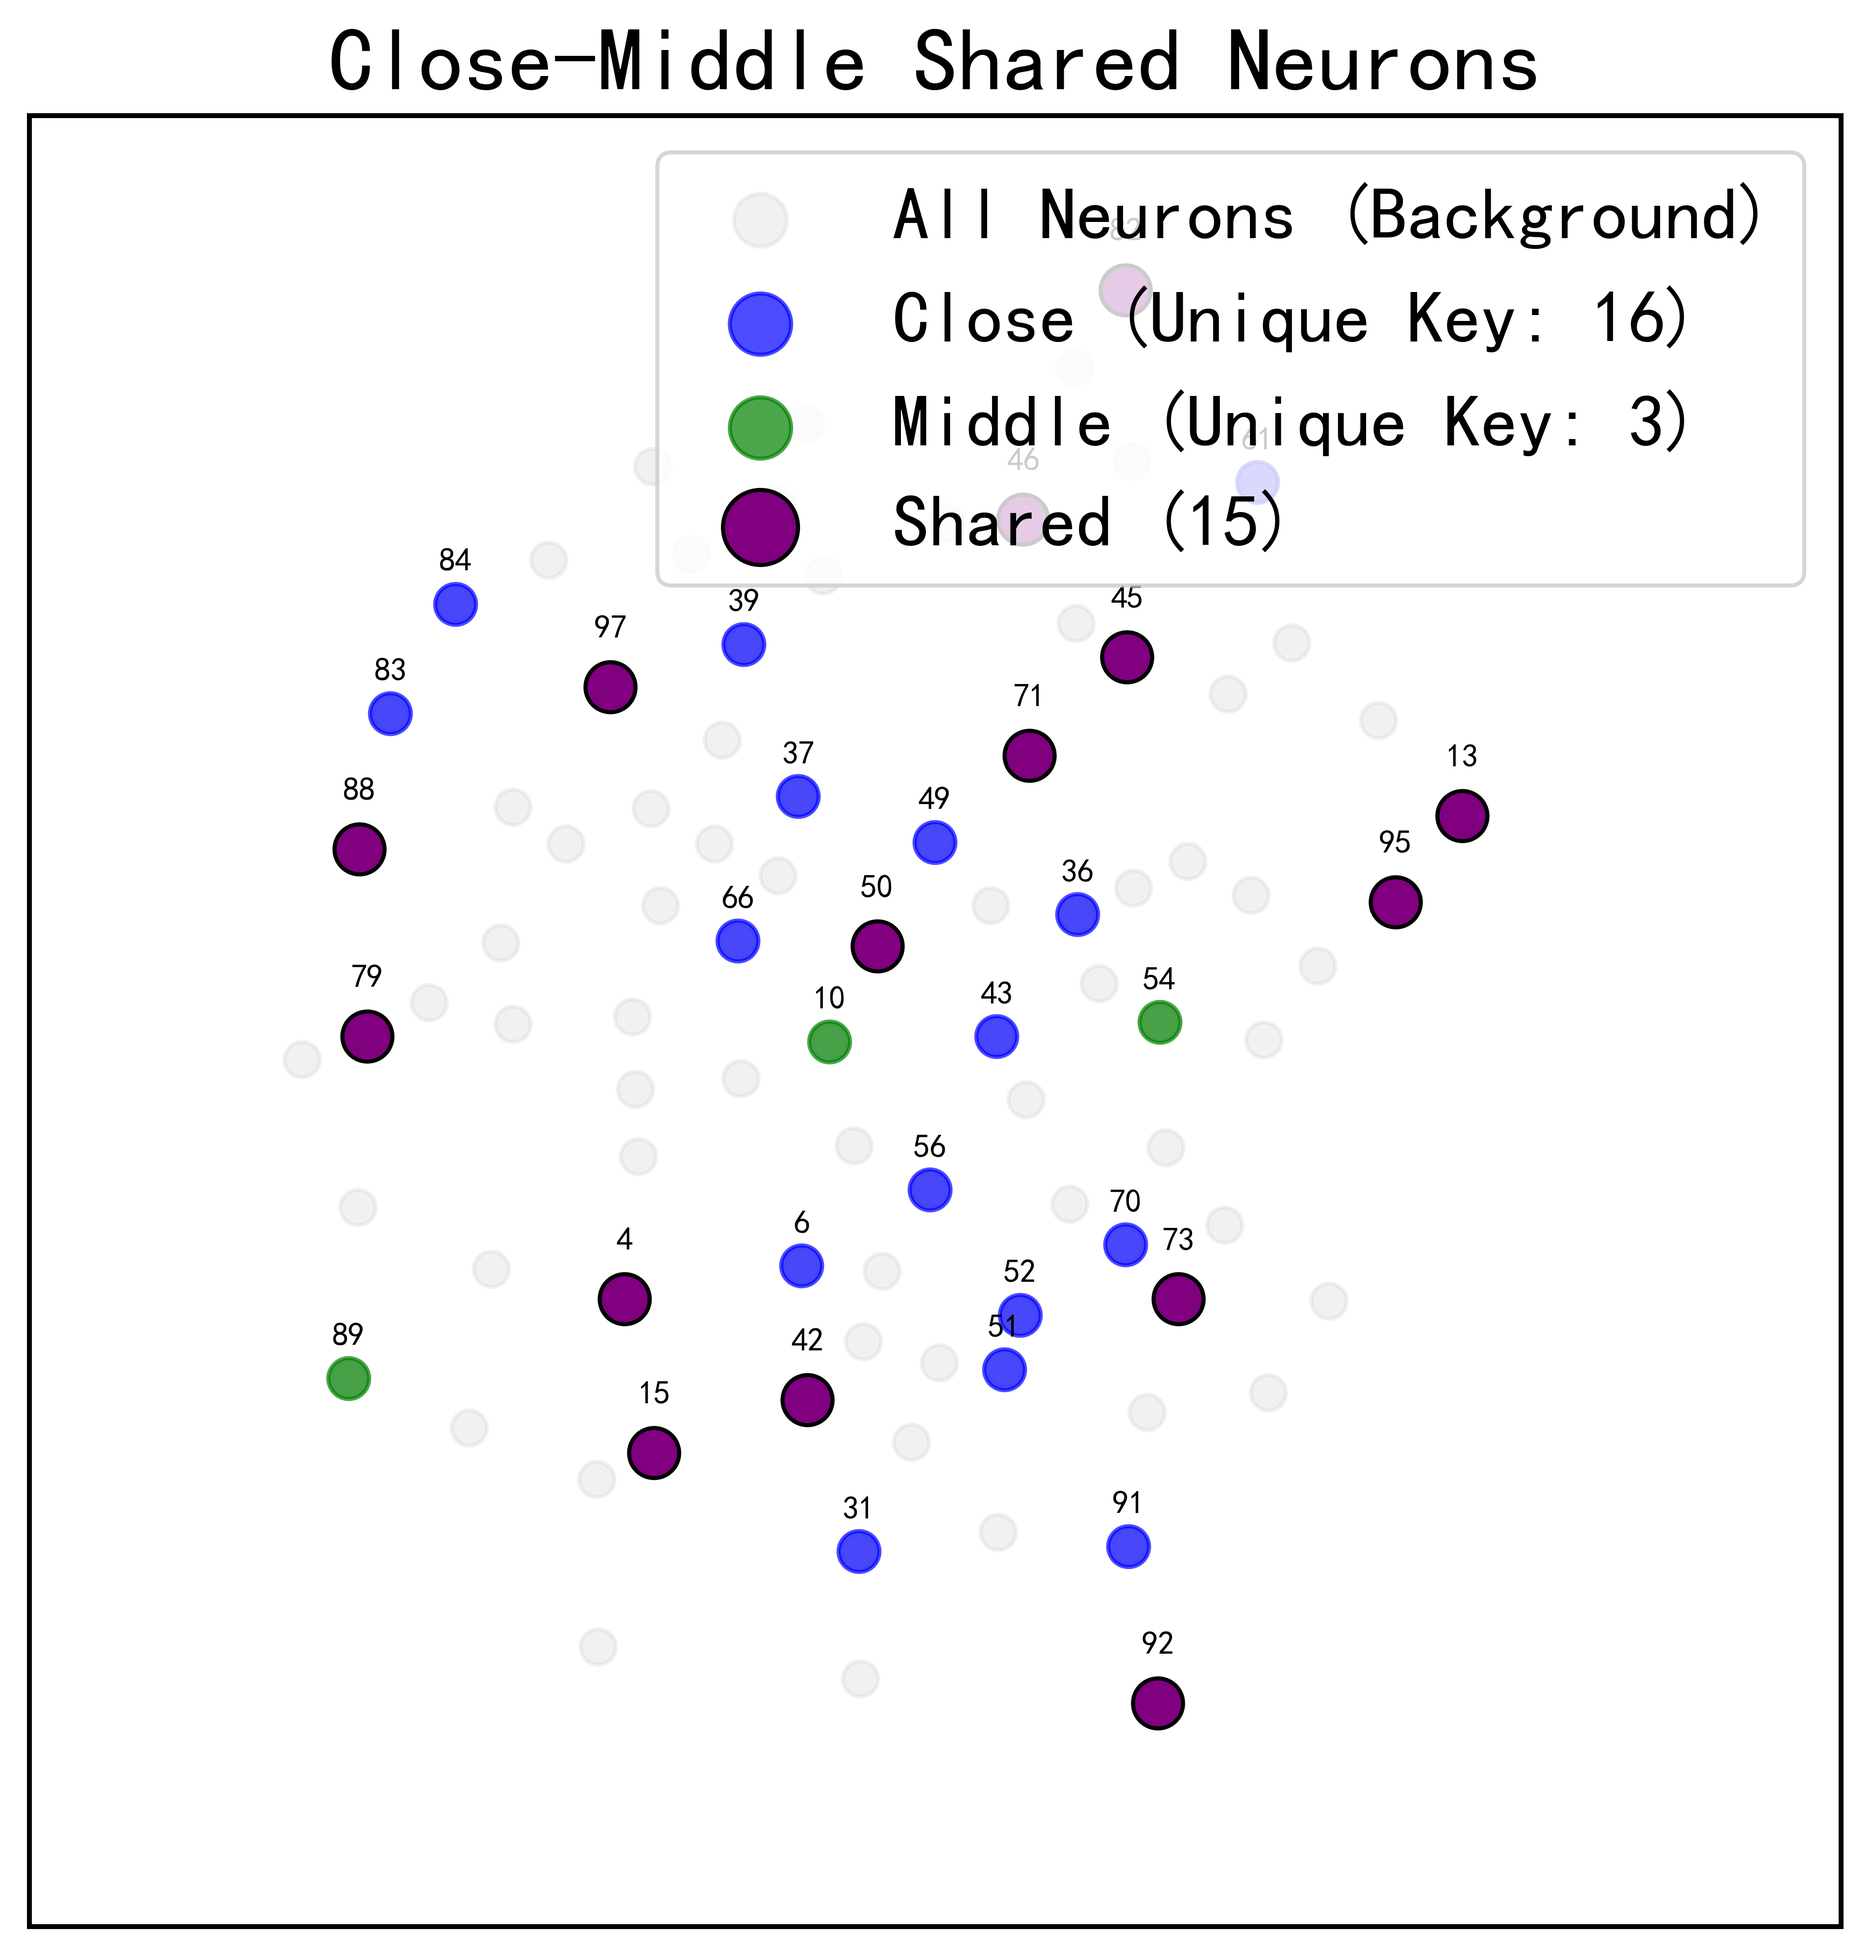
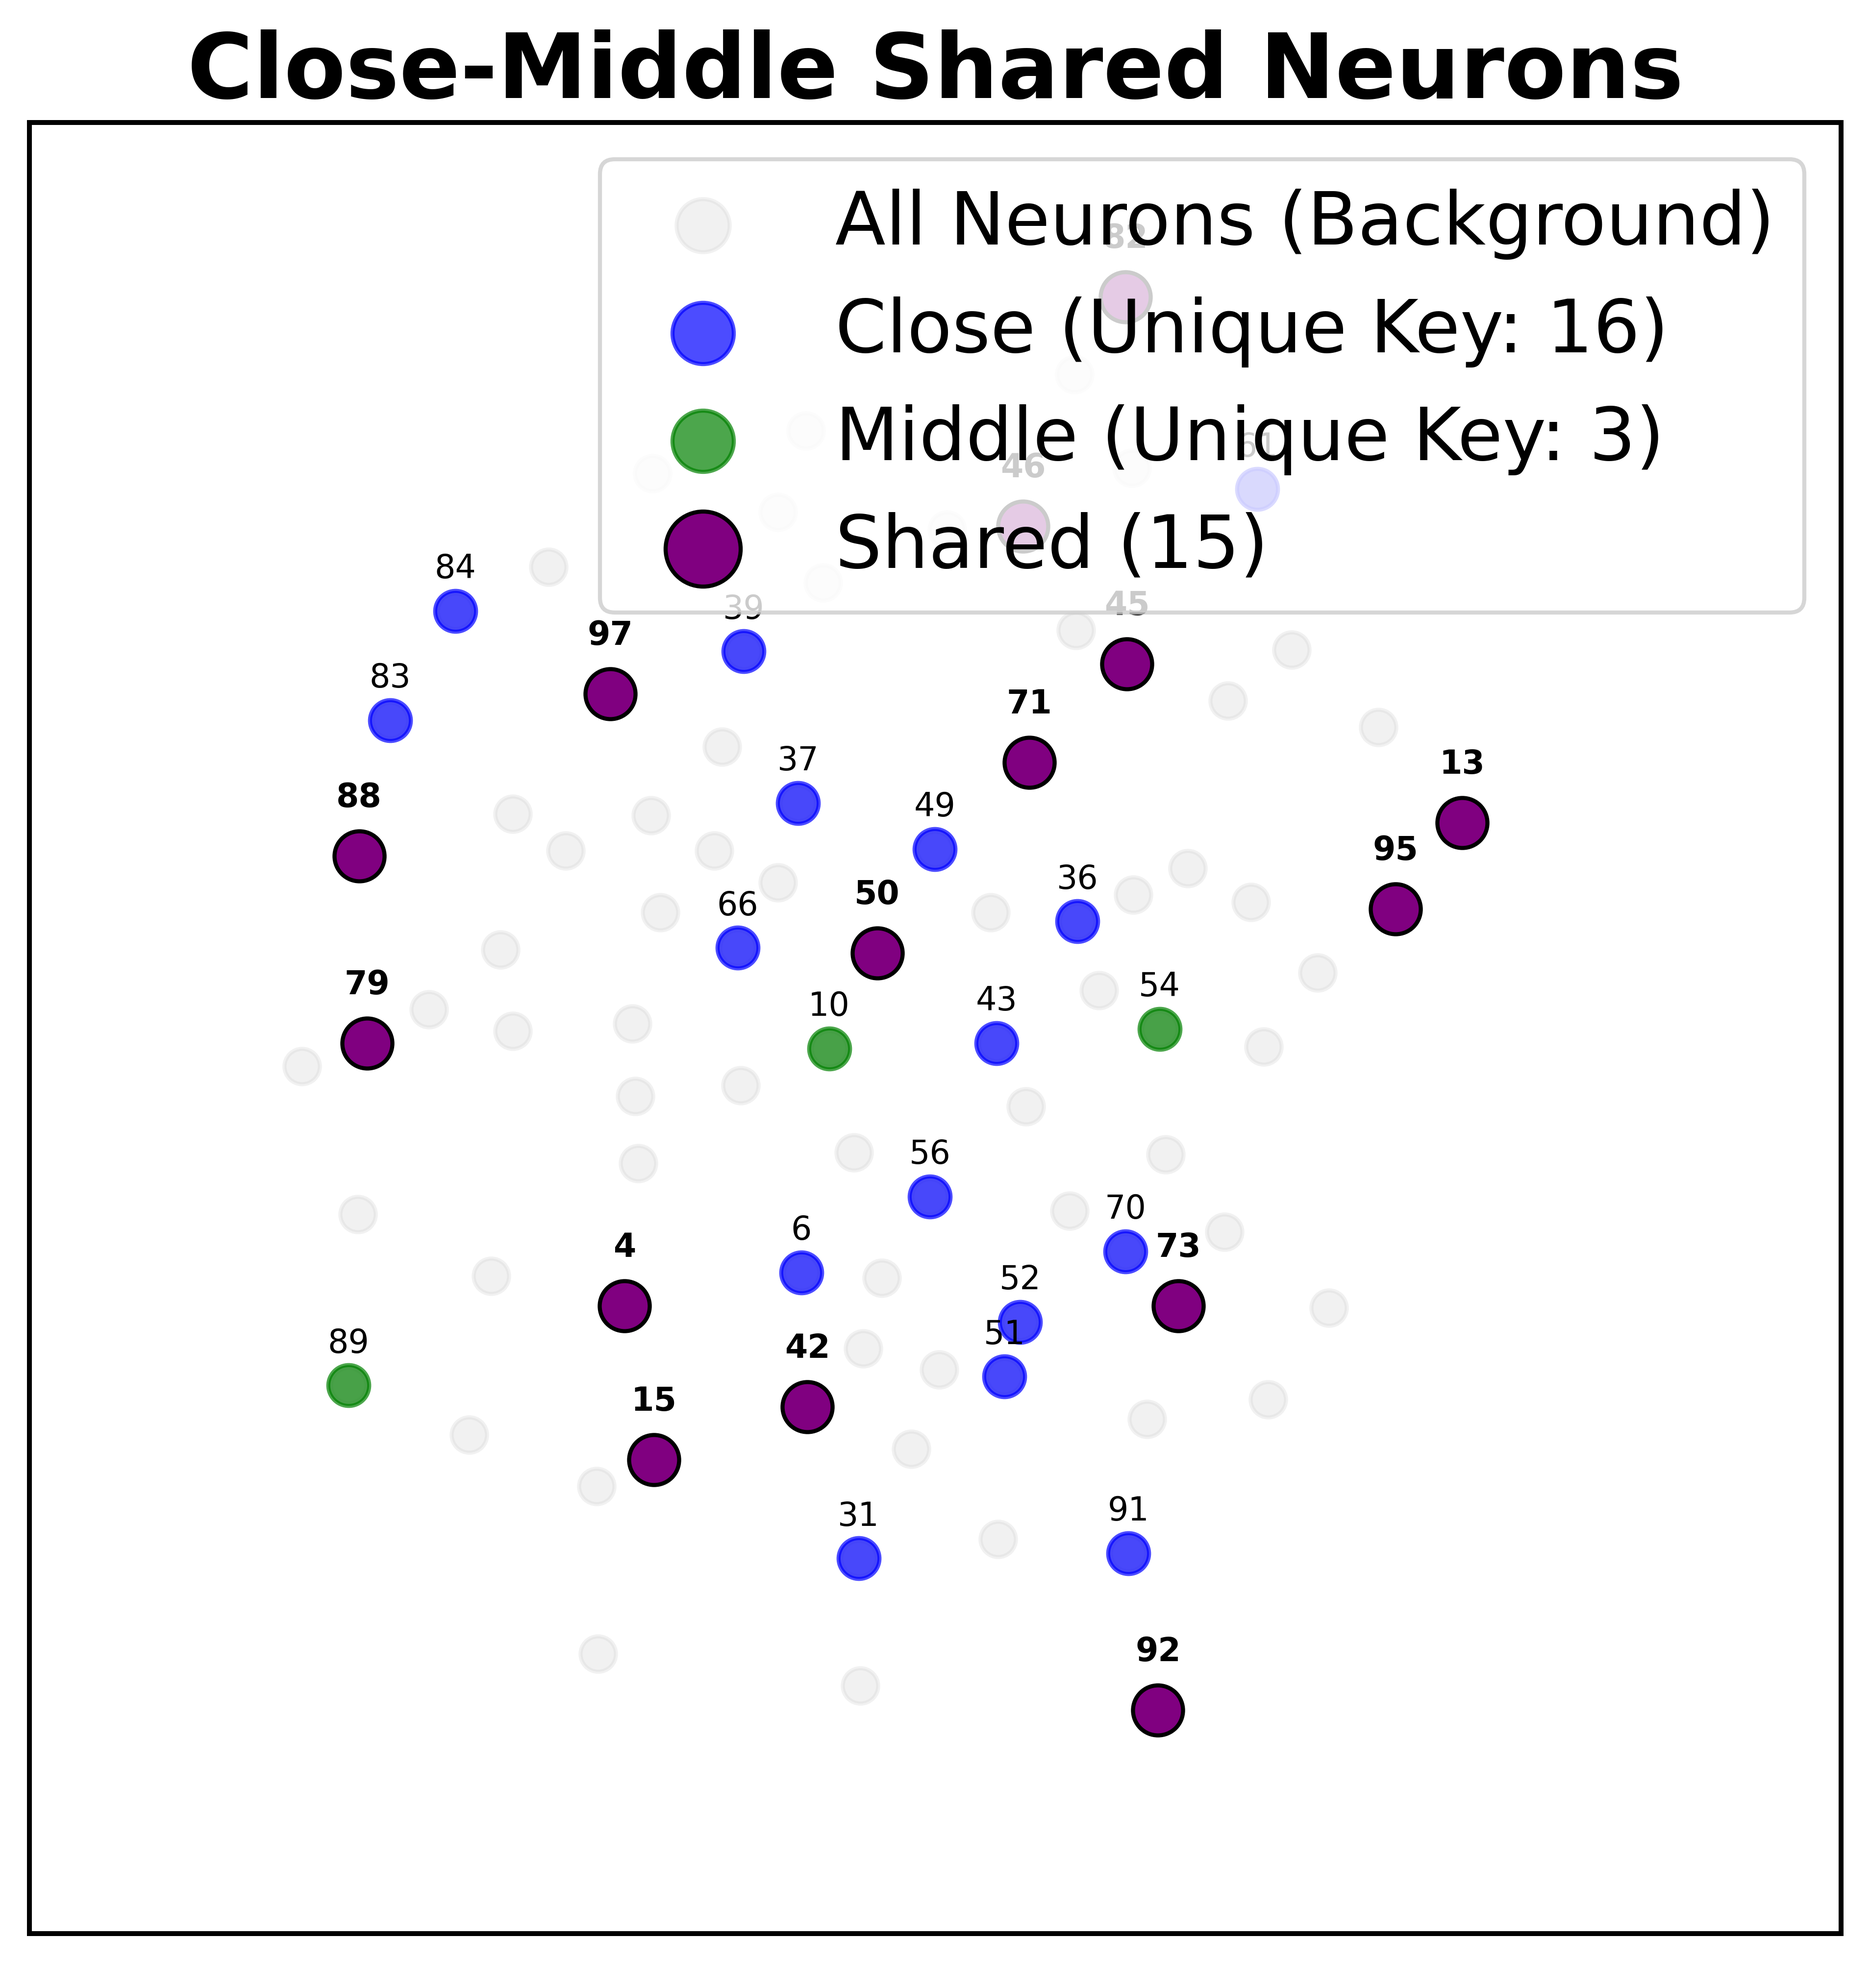
1

diff --git a/principal_neuron/src/plotting_utils.py b/principal_neuron/src/plotting_utils.py
@@ -211,6 +211,114 @@ def plot_shared_neurons_map(behavior1_name, behavior2_name,
     elif fig is not None and output_path is None and ax is None:
         plt.close(fig)
 
+def plot_shared_neurons_map_3way(behavior1_name, behavior2_name, behavior3_name,
+                                 behavior1_all_key_neurons_df, behavior2_all_key_neurons_df, behavior3_all_key_neurons_df,
+                                 shared_key_neurons_df,
+                                 color1, color2, color3, mixed_color,
+                                 title, output_path=None,
+                                 all_neuron_positions_df=None,
+                                 show_background_neurons=False,
+                                 background_neuron_color='lightgray',
+                                 background_neuron_size=20,
+                                 background_neuron_alpha=0.5,
+                                 standard_key_neuron_alpha=0.7,
+                                 use_standard_alpha_for_unshared_in_scheme_b=True,
+                                 scheme='B', show_title=True, alpha_non_shared=0.3, shared_marker_size_factor=1.5,
+                                 ax=None
+                                 ):
+    """
+    绘制三种行为间共享的关键神经元图。
+    如果提供了 ax 参数，则在该 ax 上绘图，否则创建新图并保存到 output_path。
+    """
+    fig = None
+    if ax is None:
+        fig, ax = plt.subplots(figsize=(10, 8))
+        fig.patch.set_facecolor('white')
+
+    base_marker_size = 100
+
+    # Draw background
+    if show_background_neurons and all_neuron_positions_df is not None and not all_neuron_positions_df.empty:
+        _draw_activity_on_ax(ax, all_neuron_positions_df,
+                             color=background_neuron_color, 
+                             size=background_neuron_size, 
+                             alpha=background_neuron_alpha,
+                             edgecolors=background_neuron_color, 
+                             label='All Neurons (Background)',
+                             annotate_ids=False, 
+                             z_order=1)
+
+    if scheme == 'A':
+        # Scheme A: Only draw shared neurons
+        if shared_key_neurons_df.empty:
+            if fig is not None: print(f"行为 {behavior1_name}, {behavior2_name}, {behavior3_name} 之间无共享神经元。")
+        else:
+            _draw_activity_on_ax(ax, shared_key_neurons_df, color=mixed_color, size=base_marker_size,
+                                 alpha=0.9, edgecolors='black', label=f'Shared ({len(shared_key_neurons_df)})',
+                                 z_order=4, annotation_fontsize=9 if fig is None else 8)
+    
+    elif scheme == 'B':
+        # Scheme B: Draw non-shared (relative to the triple intersection) + Shared
+        current_alpha_for_unshared = alpha_non_shared
+        if use_standard_alpha_for_unshared_in_scheme_b:
+            current_alpha_for_unshared = standard_key_neuron_alpha
+
+        shared_ids = shared_key_neurons_df['NeuronID'].tolist() if not shared_key_neurons_df.empty else []
+
+        # Draw B1 non-shared
+        non_shared_b1_df = behavior1_all_key_neurons_df[~behavior1_all_key_neurons_df['NeuronID'].isin(shared_ids)]
+        if not non_shared_b1_df.empty:
+            _draw_activity_on_ax(ax, non_shared_b1_df, color=color1, size=base_marker_size,
+                                 alpha=current_alpha_for_unshared, edgecolors=color1,
+                                 label=f'{behavior1_name} (Unique Key: {len(non_shared_b1_df)})', z_order=2,
+                                 annotation_fontsize=8, annotation_weight='normal', annotation_offset=(0,8)) 
+
+        # Draw B2 non-shared
+        non_shared_b2_df = behavior2_all_key_neurons_df[~behavior2_all_key_neurons_df['NeuronID'].isin(shared_ids)]
+        if not non_shared_b2_df.empty:
+            _draw_activity_on_ax(ax, non_shared_b2_df, color=color2, size=base_marker_size,
+                                 alpha=current_alpha_for_unshared, edgecolors=color2,
+                                 label=f'{behavior2_name} (Unique Key: {len(non_shared_b2_df)})', z_order=2,
+                                 annotation_fontsize=8, annotation_weight='normal', annotation_offset=(0,8))
+
+        # Draw B3 non-shared
+        non_shared_b3_df = behavior3_all_key_neurons_df[~behavior3_all_key_neurons_df['NeuronID'].isin(shared_ids)]
+        if not non_shared_b3_df.empty:
+            _draw_activity_on_ax(ax, non_shared_b3_df, color=color3, size=base_marker_size,
+                                 alpha=current_alpha_for_unshared, edgecolors=color3,
+                                 label=f'{behavior3_name} (Unique Key: {len(non_shared_b3_df)})', z_order=2,
+                                 annotation_fontsize=8, annotation_weight='normal', annotation_offset=(0,8))
+
+        # Draw Shared
+        if not shared_key_neurons_df.empty:
+            _draw_activity_on_ax(ax, shared_key_neurons_df, color=mixed_color,
+                                 size=base_marker_size * shared_marker_size_factor,
+                                 alpha=1.0, edgecolors='black',
+                                 label=f'Shared ({len(shared_key_neurons_df)})', z_order=4,
+                                 annotation_fontsize=9 if fig is None else 8, annotation_weight='bold')
+        elif fig is not None:
+             print(f"行为 {behavior1_name}, {behavior2_name}, {behavior3_name} 之间无共享神经元。")
+
+    else:
+        if fig is not None: raise ValueError(f"未知绘图方案: {scheme}")
+        else: ax.text(0.5,0.5, f"Error: Unknown scheme '{scheme}'", transform=ax.transAxes)
+
+    if show_title: ax.set_title(title, fontsize=24 if fig is None else 22, fontweight='bold')
+    
+    _style_activity_plot_ax(ax)
+    
+    handles, labels = ax.get_legend_handles_labels()
+    if handles:
+        by_label = OrderedDict(zip(labels, handles))
+        ax.legend(by_label.values(), by_label.keys(), loc='upper right', fontsize=18, markerscale=1.5)
+
+    if fig is not None and output_path is not None:
+        plt.savefig(output_path, bbox_inches='tight')
+        print(f"图表已保存到 {output_path}")
+        plt.close(fig)
+    elif fig is not None and output_path is None and ax is None:
+        plt.close(fig)
+
 def plot_unique_neurons_map(unique_neurons_df, behavior_name, behavior_color, title, output_path=None, 
                               all_neuron_positions_df=None, 
                               show_background_neurons=False, 

diff --git a/principal_neuron/src/main_emtrace_analysis.py b/principal_neuron/src/main_emtrace_analysis.py
@@ -371,7 +371,8 @@ from plotting_utils import (
     plot_unique_neurons_map,
     plot_combined_9_grid,
     plot_3d_combined_neuron_distribution,
-    plot_3d_activation_categories_combined
+    plot_3d_activation_categories_combined,
+    plot_shared_neurons_map_3way
 )
 from effect_size_calculator import EffectSizeCalculator, load_and_calculate_effect_sizes
 
@@ -766,9 +767,9 @@ if __name__ == "__main__":
     # dataset_key = 'bla6250_plus' # 使用BLA6250增强版数据集
     # dataset_key = 'day3'         # 使用Day3数据集
     
-    dataset_key = '29800930openfield'    # 使用29800930openfield数据集
+    # dataset_key = '29800930openfield'    # 使用29800930openfield数据集
     # dataset_key = '29800924openfield'    # 使用29800924openfield数据集
-    # dataset_key = '5355EM'    # 使用5355EM数据集
+    dataset_key = '5355EM-plus'    # 使用5355EM数据集
     
     # ===============================================================================
     # 智能数据集选择和验证
@@ -965,6 +966,70 @@ if __name__ == "__main__":
             except Exception as e:
                 print(f"    ❌ 生成 {b1}-{b2} 共享图表失败: {str(e)}")
         
+        # --- 2.5 为每三组行为生成共享神经元图 (如果有3个或更多行为) ---
+        if len(all_behaviors) >= 3:
+            print(f"\n🔗 生成每三组行为的共享神经元图...")
+            behavior_triplets = list(combinations(all_behaviors, 3))
+            print(f"  📊 总共需要生成 {len(behavior_triplets)} 个三组共享神经元图")
+            
+            for b1, b2, b3 in behavior_triplets:
+                print(f"  🔸 生成 {b1}, {b2}, {b3} 的共享神经元图...")
+                
+                ids1 = set(key_neurons_by_behavior.get(b1, []))
+                ids2 = set(key_neurons_by_behavior.get(b2, []))
+                ids3 = set(key_neurons_by_behavior.get(b3, []))
+                shared_ids = list(ids1.intersection(ids2).intersection(ids3))
+                
+                if not shared_ids:
+                    print(f"    ⚠  {b1}, {b2}, {b3} 没有共同共享的关键神经元，跳过...")
+                    continue
+
+                df_b1_all_key = df_neuron_positions[df_neuron_positions['NeuronID'].isin(list(ids1))]
+                df_b2_all_key = df_neuron_positions[df_neuron_positions['NeuronID'].isin(list(ids2))]
+                df_b3_all_key = df_neuron_positions[df_neuron_positions['NeuronID'].isin(list(ids3))]
+                df_shared_key = df_neuron_positions[df_neuron_positions['NeuronID'].isin(shared_ids)]
+                
+                safe_b1 = b1.replace('/', '-').replace('\\', '-').replace(':', '-').replace('*', '-').replace('?', '-').replace('"', '-').replace('<', '-').replace('>', '-').replace('|', '-')
+                safe_b2 = b2.replace('/', '-').replace('\\', '-').replace(':', '-').replace('*', '-').replace('?', '-').replace('"', '-').replace('<', '-').replace('>', '-').replace('|', '-')
+                safe_b3 = b3.replace('/', '-').replace('\\', '-').replace(':', '-').replace('*', '-').replace('?', '-').replace('"', '-').replace('<', '-').replace('>', '-').replace('|', '-')
+                
+                output_filename = f"shared_3way_{safe_b1}_{safe_b2}_{safe_b3}.png"
+                output_path = os.path.join(data_paths['output_dir'], output_filename)
+                
+                try:
+                    # Determine colors
+                    c1 = behavior_color_map.get(b1, 'pink')
+                    c2 = behavior_color_map.get(b2, 'lightblue')
+                    c3 = behavior_color_map.get(b3, 'lightgreen')
+                    
+                    # For mixed color, maybe use black or a distinct color
+                    mixed_color = 'black' 
+                    
+                    plot_shared_neurons_map_3way(
+                        behavior1_name=b1, behavior2_name=b2, behavior3_name=b3,
+                        behavior1_all_key_neurons_df=df_b1_all_key,
+                        behavior2_all_key_neurons_df=df_b2_all_key,
+                        behavior3_all_key_neurons_df=df_b3_all_key,
+                        shared_key_neurons_df=df_shared_key,
+                        color1=c1, color2=c2, color3=c3,
+                        mixed_color=mixed_color,
+                        title=f'{b1}-{b2}-{b3} Shared Neurons',
+                        output_path=output_path,
+                        all_neuron_positions_df=df_neuron_positions,
+                        scheme='B',
+                        show_background_neurons=SHOW_BACKGROUND_NEURONS,
+                        background_neuron_color=BACKGROUND_NEURON_COLOR,
+                        background_neuron_size=BACKGROUND_NEURON_SIZE,
+                        background_neuron_alpha=BACKGROUND_NEURON_ALPHA,
+                        standard_key_neuron_alpha=STANDARD_KEY_NEURON_ALPHA,
+                        use_standard_alpha_for_unshared_in_scheme_b=USE_STANDARD_ALPHA_FOR_UNSHARED_IN_SCHEME_B,
+                        alpha_non_shared=0.3,
+                        shared_marker_size_factor=1.5
+                    )
+                    print(f"    ✅ 保存到: {output_filename} (三方共享神经元数: {len(shared_ids)})")
+                except Exception as e:
+                    print(f"    ❌ 生成 {b1}-{b2}-{b3} 共享图表失败: {str(e)}")
+
         # --- 3. 为每个行为生成独有神经元图 ---
         print(f"\n🎯 生成每个行为的独有神经元图...")
         
